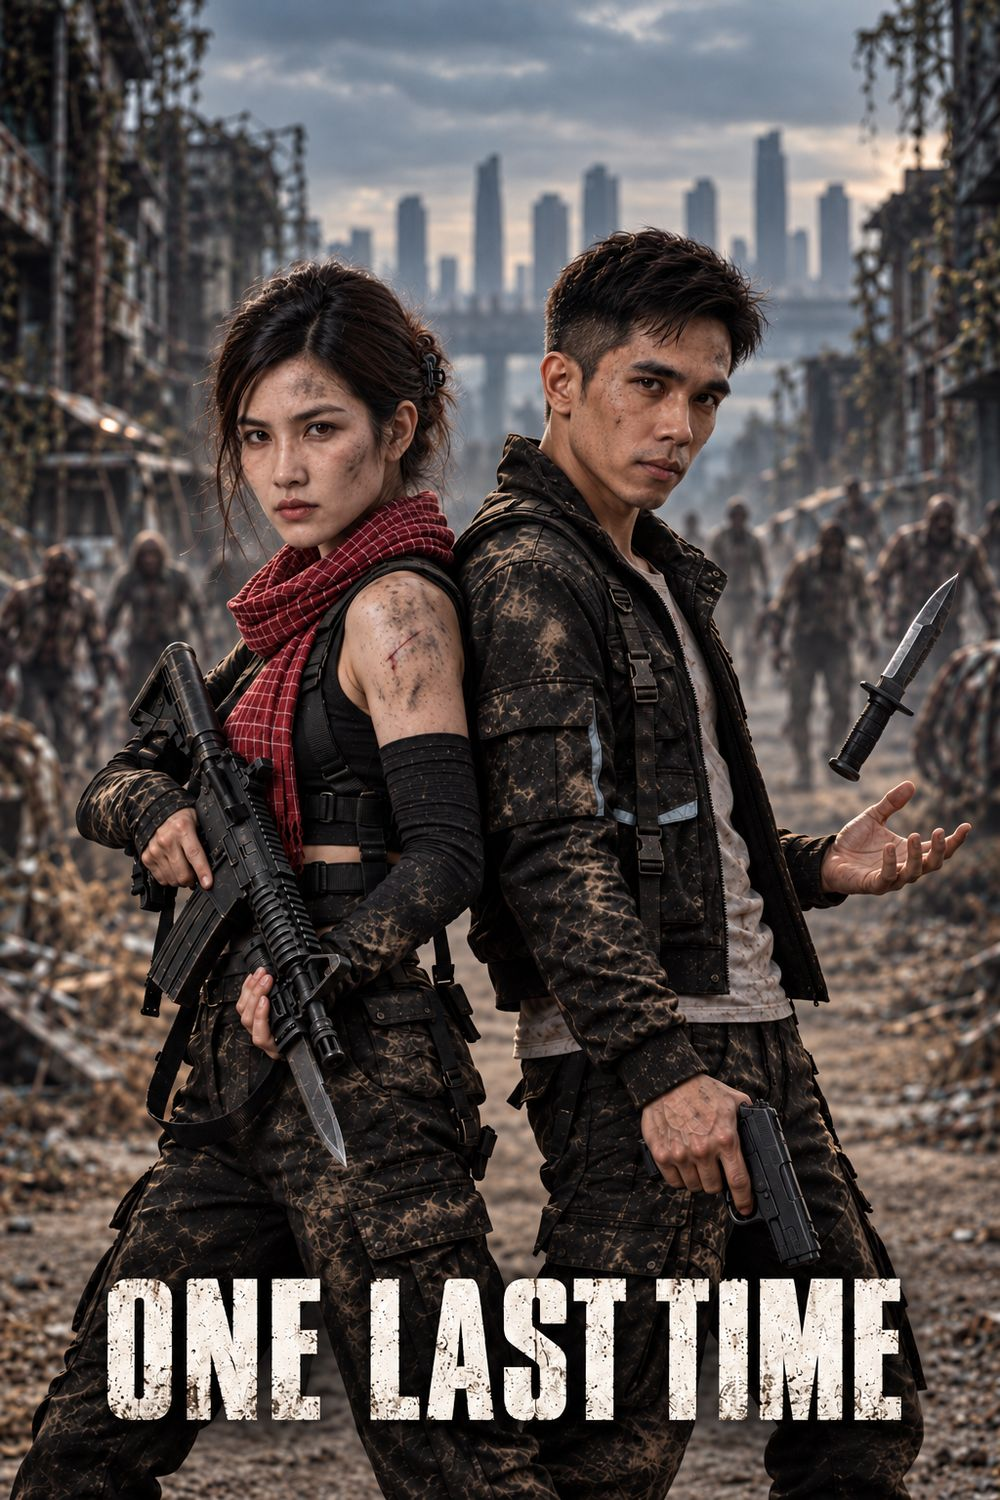
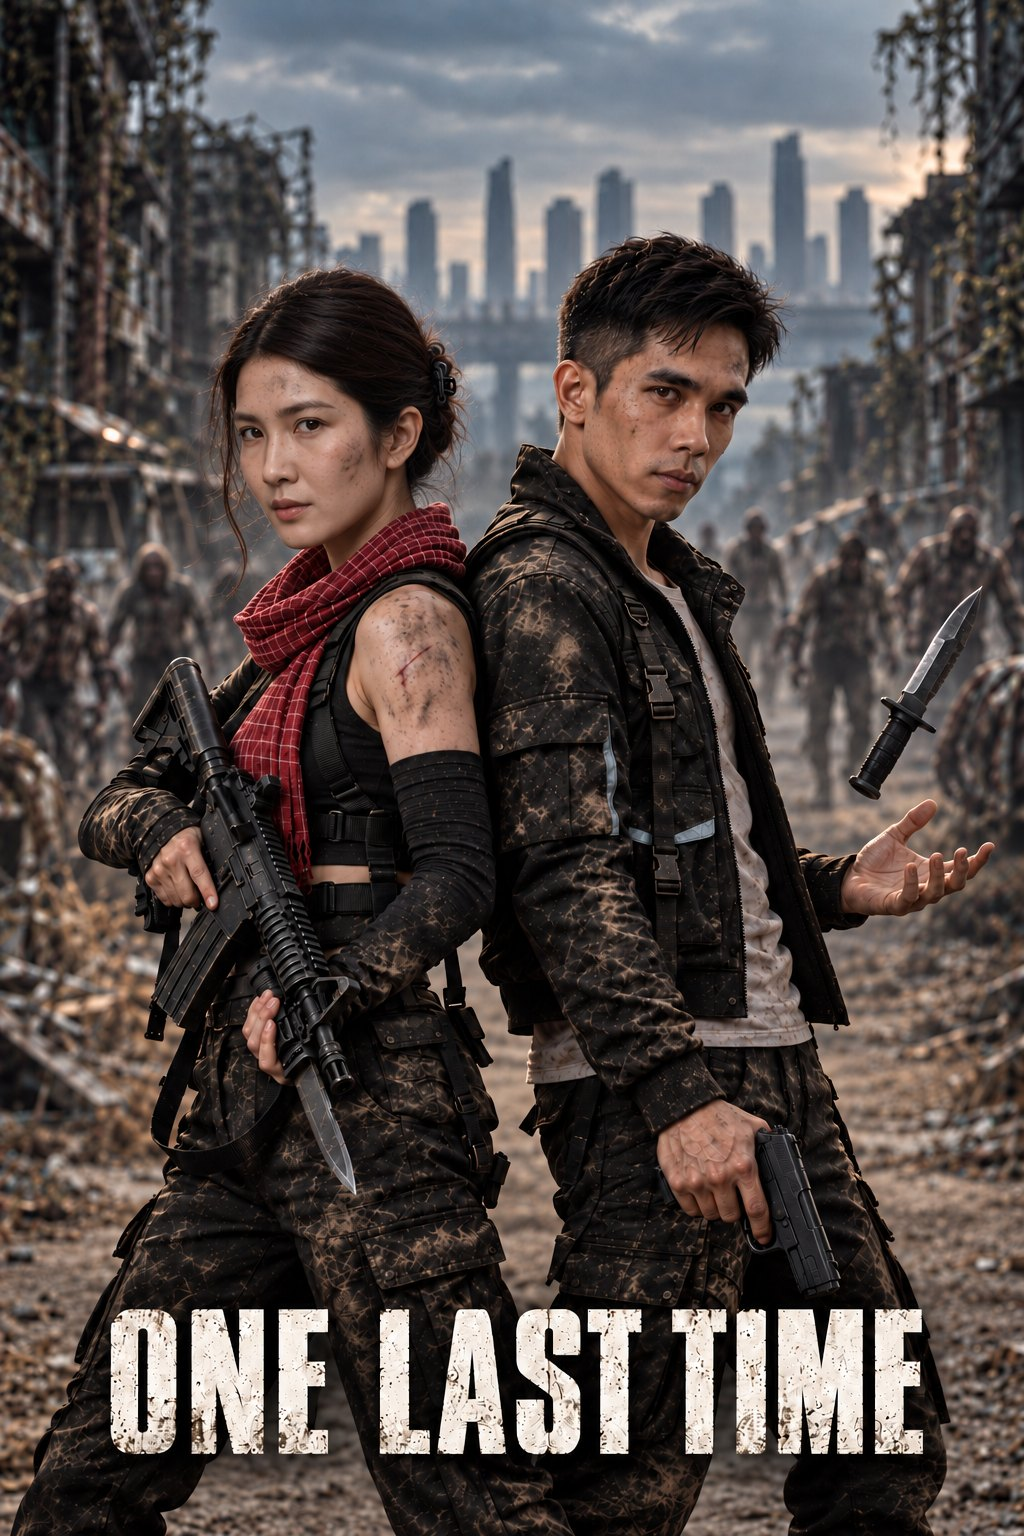
New ONE LAST TIME poster (full title visible)
Claude-Session: https://claude.ai/code/session_012v8GmNWcK77emrUMY9jaPd

diff --git a/index.html b/index.html
@@ -142,6 +142,8 @@ section{padding-block:clamp(72px,10vw,128px)}
 .frames figure:first-child{grid-column:1/-1}
 .frames img{width:100%;height:100%;object-fit:cover;aspect-ratio:16/9;transition:transform .6s ease}
 .frames figure:not(:first-child) img{aspect-ratio:3/4}
+.frames .poster-fig img{object-position:50% 100%}
+.frames .poster-fig figcaption{bottom:auto;top:10px}
 .frames figure:hover img{transform:scale(1.04)}
 .frames figcaption{position:absolute;left:10px;bottom:10px;font-family:var(--mono);font-size:11px;letter-spacing:.12em;background:rgba(0,0,0,.6);padding:5px 8px;border-radius:3px;color:var(--paper)}
 @media (max-width:900px){.show-grid{grid-template-columns:1fr;gap:36px}}
@@ -419,7 +421,7 @@ footer small{color:var(--muted);font-size:13px}
       <div class="frames">
         <figure><img src="img/olt-wide.jpg" alt="ONE LAST TIME film poster, two survivors in a ruined Phnom Penh" width="1672" height="941" loading="lazy"><figcaption>ONE LAST TIME</figcaption></figure>
         <figure><img src="img/olt-pp2044.jpg" alt="ONE LAST TIME, Phnom Penh 2044 scene" width="1448" height="1086" loading="lazy"><figcaption>PHNOM PENH 2044</figcaption></figure>
-        <figure><img src="img/olt-poster.jpg" alt="ONE LAST TIME portrait poster" width="1000" height="1500" loading="lazy"><figcaption>100% AI</figcaption></figure>
+        <figure class="poster-fig"><img src="img/olt-poster.jpg" alt="ONE LAST TIME portrait poster" width="1024" height="1536" loading="lazy"><figcaption>100% AI</figcaption></figure>
       </div>
     </div>
     <div class="wrap more-work">
